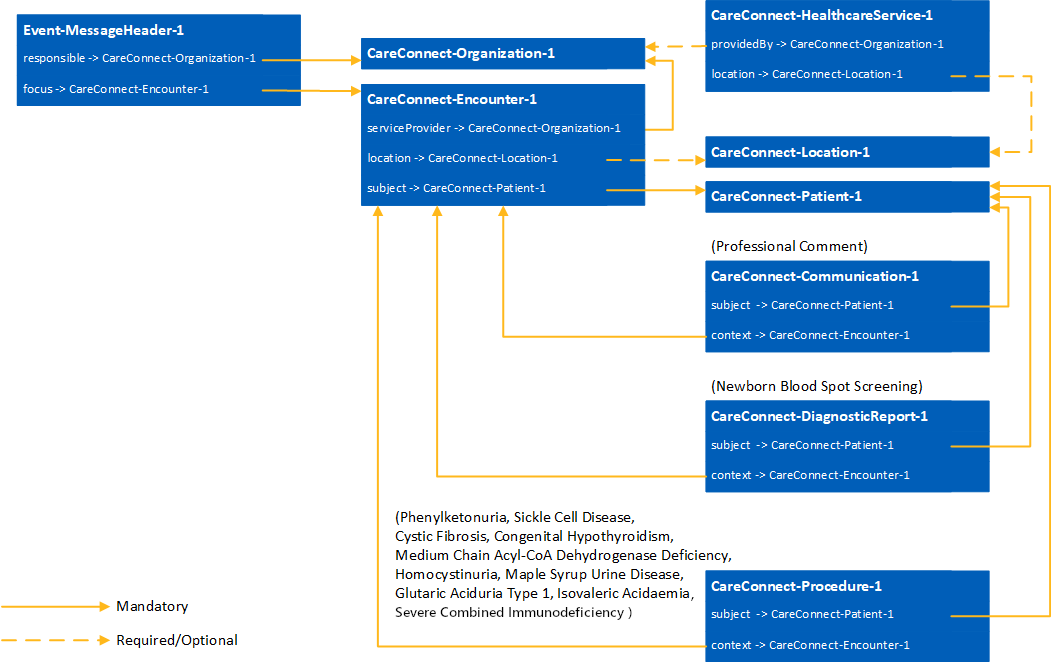
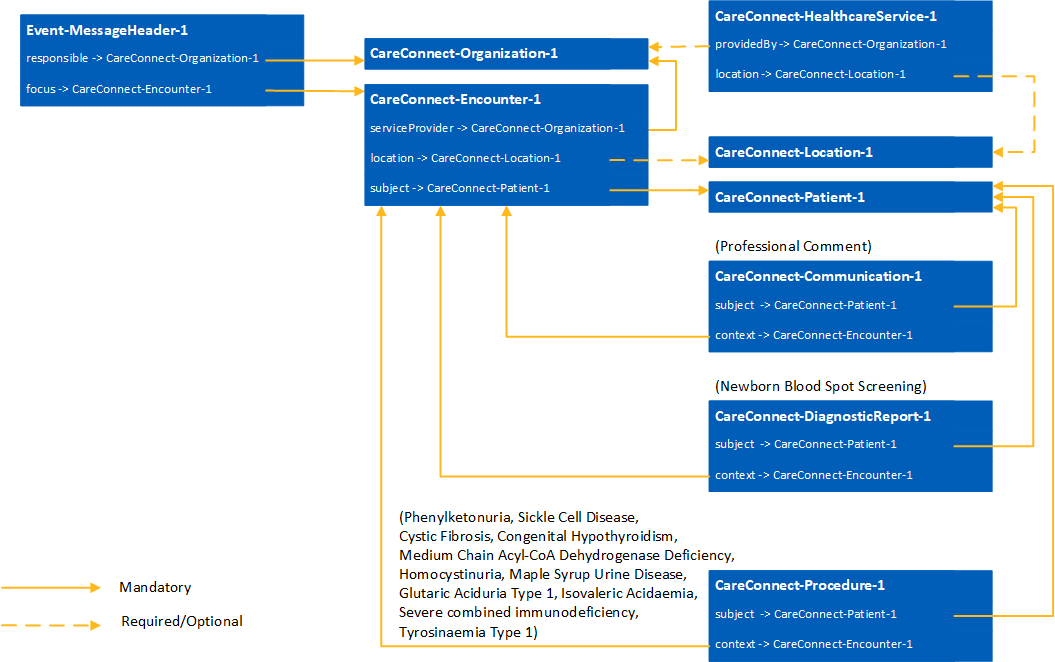
Changes for TYROSINAEMIA
changes for TYROSINAEMIA blood spot test

diff --git a/pages/messages/messages/blood_spot_test_outcome_1.md b/pages/messages/messages/blood_spot_test_outcome_1.md
@@ -79,6 +79,7 @@ The following requirements and resource population guidance must be followed in 
 | Outcome - GLUTARIC ACIDURIA TYPE 1                       | CareConnect-Procedure-1.Procedure.outcome                        | Outcome of screening for GA1   |
 | Outcome - ISOVALERIC ACIDAEMIA                           | CareConnect-Procedure-1.Procedure.outcome                        | Outcome of screening for IVA   |
 | Outcome - SEVERE COMBINED IMMUNODEFICIENCY               | CareConnect-Procedure-1.Procedure.outcome                        | Outcome of screening for SCID  |
+| Outcome - TYROSINAEMIA TYPE 1                            | CareConnect-Procedure-1.Procedure.outcome                        | Outcome of screening for HT1   |
 | Comments | CareConnect-Communication-1.Communication.category.coding.system | Supporting text may be given covering regarding the screening test, outcome and actions taken. |
 
 
@@ -288,6 +289,15 @@ For each of the Procedure resources representing a Test Outcome:
 | Procedure.code.coding.display | 1..1 | Fixed Value: Severe combined immunodeficiency screening test |
 | Procedure.outcome.coding(snomedCT) | 1..1 | Procedure.outcome.coding(snomedCT) SHALL use a value from https://fhir.nhs.uk/STU3/ValueSet/DCH-BloodSpotOutcome-1 |
 
+
+### CareConnect-Procedure-1 (Blood Spot Screening, Tyrosinaemia Type 1)
+
+| Element | Cardinality | Additional Guidance |
+| --- | --- | --- |
+| Procedure.code.coding.system | 1..1 | Fixed Value: http://snomed.info/sct |
+| Procedure.code.coding.code | 1..1 | Fixed Value: 2201661000000107 |
+| Procedure.code.coding.display | 1..1 | Fixed Value: Tyrosinaemia type 1 screening test |
+| Procedure.outcome.coding(snomedCT) | 1..1 | Procedure.outcome.coding(snomedCT) SHALL use a value from https://fhir.nhs.uk/STU3/ValueSet/DCH-BloodSpotOutcome-1 |
 
 
 ### [CareConnect-Communication-1](https://simplifier.net/hl7fhircareconnectbaselineforstu3/CareConnect-Communication-1)

diff --git a/pages/overview/overview_release_notes.md b/pages/overview/overview_release_notes.md
@@ -6,6 +6,11 @@ sidebar: overview_sidebar
 permalink: overview_release_notes.html
 summary: Summary release notes of the versions released in National Events Management Service Implementation Guide
 ---
+## 2.15.0 (02/10/2024) ##
+Tyrosinaemia type 1 screening test added
+
+- [Blood Spot Test Outcome](blood_spot_test_outcome_1.html)
+
 
 ## 2.14.3 (14/03/2023) ##
 
